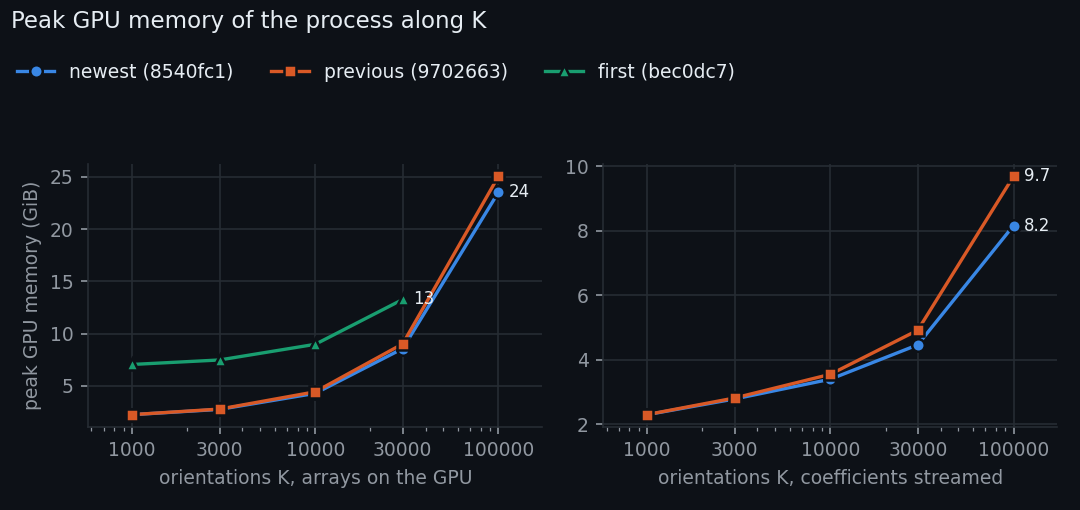
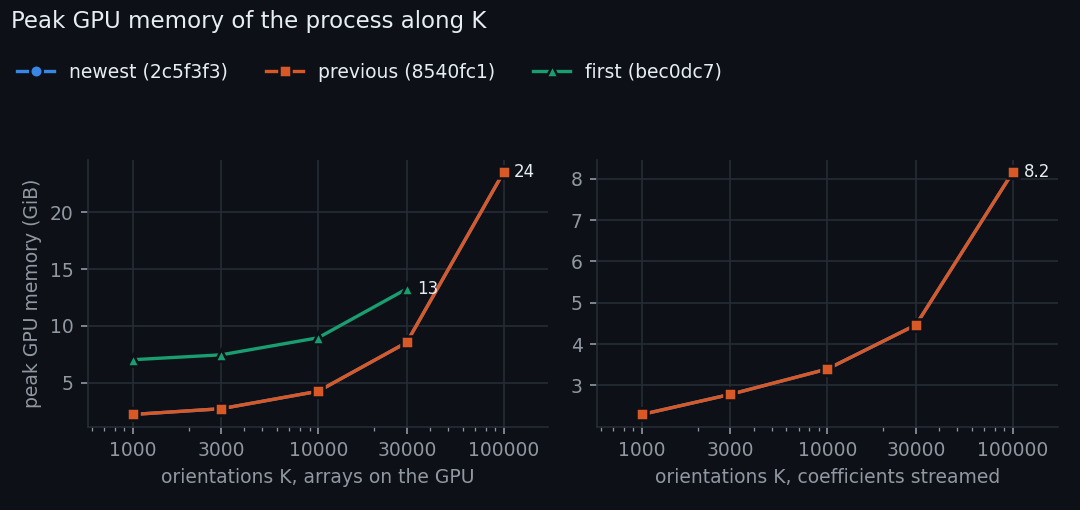
Benchmark results for 2c5f3f3 (FFT projector above 400 x 400), incl. 1200 x 1200

diff --git a/benchmarks/report.py b/benchmarks/report.py
@@ -27,6 +27,7 @@ LABELS = {
     "fbc8934": "NumPy API, (K, Ny, Nx) layout",
     "2c38f65": "sparse PF matrix generated directly, faster sparse products, store what fits, "
                "Radon in slices, larger batches",
+    "2c5f3f3": "Fourier-slice projector (projector=\"fft\"), the default above 400 x 400 pixels (results differ by ~1 %)",
     "8540fc1": "defaults: PF Gaussians cut at 3 sigma (was 3.46; results change by ~1 %), parallel random start of "
                "the streamed power iteration",
     "9702663": "streamed power iteration on all cores, streaming buffers kept with the operator; sparse up to 30 % "

diff --git a/benchmarks/RESULTS.md b/benchmarks/RESULTS.md
@@ -10,6 +10,7 @@ Speed and peak memory of diffractom's texture-tomography reconstruction across v
 
 | version | date | what changed |
 |---|---|---|
+| `2c5f3f3` | 2026-10-02 | Fourier-slice projector (projector="fft"), the default above 400 x 400 pixels (results differ by ~1 %) |
 | `8540fc1` | 2026-10-02 | defaults: PF Gaussians cut at 3 sigma (was 3.46; results change by ~1 %), parallel random start of the streamed power iteration |
 | `9702663` | 2026-10-02 | streamed power iteration on all cores, streaming buffers kept with the operator; sparse up to 30 % fill when stored (results unchanged) |
 | `9be35fb` | 2026-10-02 | tiled Radon projections (image rows / sinogram bins staged in local memory); at least 4 batches in the sparse modes |
@@ -22,47 +23,47 @@ Speed and peak memory of diffractom's texture-tomography reconstruction across v
 | `5a402f0` | 2026-09-28 | sparse PF matrix (`pf_mode="auto"`) |
 | `bec0dc7` | 2026-09-28 | before the speed-ups: dense PF matrix only |
 
-## Newest (`8540fc1`) against the version before it (`9702663`)
+## Newest (`2c5f3f3`) against the version before it (`8540fc1`)
 
 Seconds per FISTA iteration, steady state (without the first iteration, which includes the setup) where both versions recorded it (marked s), else the average of the two iterations; speed-up = previous / newest (below 1: slower). Single short runs: differences within about 10 % are noise.
 
 | case | mode | previous | newest | speed-up |
 |---|---|---:|---:|---:|
-| K = 1000, 120 x 120, sigma = 0.4 | gpu | 0.0739 | 0.0732 | 1.01x s |
-| K = 3000, 120 x 120, sigma = 0.4 | gpu | 0.149 | 0.149 | 1.00x s |
-| K = 10000, 64 x 64, sigma = 0.4 | gpu | 0.196 | 0.194 | 1.01x s |
-| K = 10000, 120 x 120, sigma = 0.4 | gpu | 0.452 | 0.449 | 1.01x s |
-| K = 10000, 120 x 120, sigma = 1 | gpu | 0.538 | 0.69 | **0.78x s** (slower) |
-| K = 10000, 120 x 120, sigma = 2 | gpu | 0.969 | 0.824 | 1.18x s |
-| K = 10000, 120 x 120, sigma = 4 | gpu | 4.44 | 4.42 | 1.01x s |
-| K = 10000, 200 x 200, sigma = 0.4 | gpu | 1.05 | 1.04 | 1.01x s |
-| K = 10000, 400 x 400, sigma = 0.4 | gpu | 3.35 | 3.49 | 0.96x s |
-| K = 10000, 400 x 400, sigma = 2 | gpu | 5.18 | 4.73 | 1.10x s |
-| K = 10000, 400 x 400, sigma = 4 | gpu | 11.1 | 11.0 | 1.01x s |
+| K = 1000, 120 x 120, sigma = 0.4 | gpu | 0.0732 | 0.0732 | 1.00x s |
+| K = 3000, 120 x 120, sigma = 0.4 | gpu | 0.149 | 0.147 | 1.01x s |
+| K = 10000, 64 x 64, sigma = 0.4 | gpu | 0.194 | 0.194 | 1.00x s |
+| K = 10000, 120 x 120, sigma = 0.4 | gpu | 0.449 | 0.447 | 1.00x s |
+| K = 10000, 120 x 120, sigma = 1 | gpu | 0.69 | 0.51 | 1.35x s |
+| K = 10000, 120 x 120, sigma = 2 | gpu | 0.824 | 0.955 | **0.86x s** (slower) |
+| K = 10000, 120 x 120, sigma = 4 | gpu | 4.42 | 4.41 | 1.00x s |
+| K = 10000, 200 x 200, sigma = 0.4 | gpu | 1.04 | 1.04 | 1.00x s |
+| K = 10000, 400 x 400, sigma = 0.4 | gpu | 3.49 | 3.59 | 0.97x s |
+| K = 10000, 400 x 400, sigma = 2 | gpu | 4.73 | 4.74 | 1.00x s |
+| K = 10000, 400 x 400, sigma = 4 | gpu | 11.0 | 11.0 | 1.00x s |
 | K = 10000, 600 x 600, sigma = 0.4 | gpu | *array > largest GPU buffer* | *array > largest GPU buffer* |  |
 | K = 10000, 600 x 600, sigma = 2 | gpu | *array > largest GPU buffer* | *array > largest GPU buffer* |  |
 | K = 10000, 600 x 600, sigma = 4 | gpu | *skipped* | *skipped* |  |
-| K = 30000, 120 x 120, sigma = 0.4 | gpu | 1.56 | 1.31 | 1.19x s |
-| K = 100000, 120 x 120, sigma = 0.4 | gpu | 4.34 | 4.29 | 1.01x s |
-| K = 100000, 120 x 120, sigma = 1 | gpu | 6.87 | 5.57 | 1.23x s |
-| K = 1000, 120 x 120, sigma = 0.4 | stream | 0.0851 | 0.0844 | 1.01x s |
-| K = 3000, 120 x 120, sigma = 0.4 | stream | 0.161 | 0.16 | 1.01x s |
-| K = 10000, 64 x 64, sigma = 0.4 | stream | 0.203 | 0.201 | 1.01x s |
-| K = 10000, 120 x 120, sigma = 0.4 | stream | 0.465 | 0.461 | 1.01x s |
-| K = 10000, 120 x 120, sigma = 1 | stream | 0.553 | 0.525 | 1.05x s |
-| K = 10000, 120 x 120, sigma = 2 | stream | 0.975 | 0.848 | 1.15x s |
-| K = 10000, 120 x 120, sigma = 4 | stream | 4.44 | 4.43 | 1.00x s |
-| K = 10000, 200 x 200, sigma = 0.4 | stream | 1.08 | 1.07 | 1.01x s |
-| K = 10000, 400 x 400, sigma = 0.4 | stream | 3.57 | 3.69 | 0.96x s |
-| K = 10000, 400 x 400, sigma = 2 | stream | 4.96 | 4.6 | 1.08x s |
-| K = 10000, 400 x 400, sigma = 4 | stream | 11.0 | 11.1 | 1.00x s |
-| K = 10000, 600 x 600, sigma = 0.4 | stream | 8.54 | 8.14 | 1.05x s |
-| K = 10000, 600 x 600, sigma = 2 | stream | 9.84 | 9.51 | 1.03x s |
-| K = 10000, 600 x 600, sigma = 4 | stream | 17.6 | 17.7 | 0.99x s |
-| K = 20000, 1200 x 1200, sigma = 0.4 | stream | 76.9 | 77.6 | 0.99x s |
-| K = 30000, 120 x 120, sigma = 0.4 | stream | 1.37 | 1.33 | 1.03x s |
-| K = 100000, 120 x 120, sigma = 0.4 | stream | 4.57 | 4.43 | 1.03x s |
-| K = 100000, 120 x 120, sigma = 1 | stream | 5.9 | 5.47 | 1.08x s |
+| K = 30000, 120 x 120, sigma = 0.4 | gpu | 1.31 | 1.31 | 1.00x s |
+| K = 100000, 120 x 120, sigma = 0.4 | gpu | 4.29 | 4.3 | 1.00x s |
+| K = 100000, 120 x 120, sigma = 1 | gpu | 5.57 | 5.57 | 1.00x s |
+| K = 1000, 120 x 120, sigma = 0.4 | stream | 0.0844 | 0.0812 | 1.04x s |
+| K = 3000, 120 x 120, sigma = 0.4 | stream | 0.16 | 0.159 | 1.00x s |
+| K = 10000, 64 x 64, sigma = 0.4 | stream | 0.201 | 0.202 | 1.00x s |
+| K = 10000, 120 x 120, sigma = 0.4 | stream | 0.461 | 0.481 | 0.96x s |
+| K = 10000, 120 x 120, sigma = 1 | stream | 0.525 | 0.523 | 1.00x s |
+| K = 10000, 120 x 120, sigma = 2 | stream | 0.848 | 0.832 | 1.02x s |
+| K = 10000, 120 x 120, sigma = 4 | stream | 4.43 | 4.43 | 1.00x s |
+| K = 10000, 200 x 200, sigma = 0.4 | stream | 1.07 | 1.07 | 1.00x s |
+| K = 10000, 400 x 400, sigma = 0.4 | stream | 3.69 | 3.64 | 1.02x s |
+| K = 10000, 400 x 400, sigma = 2 | stream | 4.6 | 4.6 | 1.00x s |
+| K = 10000, 400 x 400, sigma = 4 | stream | 11.1 | 11.0 | 1.00x s |
+| K = 10000, 600 x 600, sigma = 0.4 | stream | 8.14 | 5.17 | 1.57x s |
+| K = 10000, 600 x 600, sigma = 2 | stream | 9.51 | 5.85 | 1.62x s |
+| K = 10000, 600 x 600, sigma = 4 | stream | 17.7 | 13.7 | 1.29x s |
+| K = 20000, 1200 x 1200, sigma = 0.4 | stream | 77.6 | 33.5 | 2.31x s |
+| K = 30000, 120 x 120, sigma = 0.4 | stream | 1.33 | 1.49 | **0.89x s** (slower) |
+| K = 100000, 120 x 120, sigma = 0.4 | stream | 4.43 | 4.35 | 1.02x s |
+| K = 100000, 120 x 120, sigma = 1 | stream | 5.47 | 5.43 | 1.01x s |
 
 ## Every version on the base case
 
@@ -158,6 +159,38 @@ The time per iteration above includes a one-time setup in the first of the two F
 | `8540fc1` | K = 10000, 600 x 600, sigma = 2 | stream | 14.0 | 9.51 |
 | `8540fc1` | K = 10000, 600 x 600, sigma = 4 | stream | 22.2 | 17.7 |
 | `8540fc1` | K = 20000, 1200 x 1200, sigma = 0.4 | stream | 109.2 | 77.6 |
+| `2c5f3f3` | K = 10000, 64 x 64, sigma = 0.4 | gpu | 0.196 | 0.194 |
+| `2c5f3f3` | K = 10000, 64 x 64, sigma = 0.4 | stream | 0.429 | 0.202 |
+| `2c5f3f3` | K = 1000, 120 x 120, sigma = 0.4 | gpu | 0.076 | 0.0732 |
+| `2c5f3f3` | K = 1000, 120 x 120, sigma = 0.4 | stream | 0.31 | 0.0812 |
+| `2c5f3f3` | K = 3000, 120 x 120, sigma = 0.4 | gpu | 0.15 | 0.147 |
+| `2c5f3f3` | K = 3000, 120 x 120, sigma = 0.4 | stream | 0.436 | 0.159 |
+| `2c5f3f3` | K = 10000, 120 x 120, sigma = 0.4 | gpu | 0.451 | 0.447 |
+| `2c5f3f3` | K = 10000, 120 x 120, sigma = 0.4 | stream | 0.952 | 0.481 |
+| `2c5f3f3` | K = 10000, 120 x 120, sigma = 1 | gpu | 0.515 | 0.51 |
+| `2c5f3f3` | K = 10000, 120 x 120, sigma = 1 | stream | 0.99 | 0.523 |
+| `2c5f3f3` | K = 10000, 120 x 120, sigma = 2 | gpu | 0.825 | 0.955 |
+| `2c5f3f3` | K = 10000, 120 x 120, sigma = 2 | stream | 1.36 | 0.832 |
+| `2c5f3f3` | K = 10000, 120 x 120, sigma = 4 | gpu | 4.37 | 4.41 |
+| `2c5f3f3` | K = 10000, 120 x 120, sigma = 4 | stream | 4.74 | 4.43 |
+| `2c5f3f3` | K = 30000, 120 x 120, sigma = 0.4 | gpu | 1.32 | 1.31 |
+| `2c5f3f3` | K = 30000, 120 x 120, sigma = 0.4 | stream | 2.49 | 1.49 |
+| `2c5f3f3` | K = 100000, 120 x 120, sigma = 0.4 | gpu | 4.33 | 4.3 |
+| `2c5f3f3` | K = 100000, 120 x 120, sigma = 0.4 | stream | 7.07 | 4.35 |
+| `2c5f3f3` | K = 100000, 120 x 120, sigma = 1 | gpu | 5.58 | 5.57 |
+| `2c5f3f3` | K = 100000, 120 x 120, sigma = 1 | stream | 7.22 | 5.43 |
+| `2c5f3f3` | K = 10000, 200 x 200, sigma = 0.4 | gpu | 1.04 | 1.04 |
+| `2c5f3f3` | K = 10000, 200 x 200, sigma = 0.4 | stream | 2.26 | 1.07 |
+| `2c5f3f3` | K = 10000, 400 x 400, sigma = 0.4 | gpu | 3.48 | 3.59 |
+| `2c5f3f3` | K = 10000, 400 x 400, sigma = 0.4 | stream | 6.84 | 3.64 |
+| `2c5f3f3` | K = 10000, 400 x 400, sigma = 2 | gpu | 4.69 | 4.74 |
+| `2c5f3f3` | K = 10000, 400 x 400, sigma = 2 | stream | 7.76 | 4.6 |
+| `2c5f3f3` | K = 10000, 400 x 400, sigma = 4 | gpu | 10.8 | 11.0 |
+| `2c5f3f3` | K = 10000, 400 x 400, sigma = 4 | stream | 13.3 | 11.0 |
+| `2c5f3f3` | K = 10000, 600 x 600, sigma = 0.4 | stream | 9.63 | 5.17 |
+| `2c5f3f3` | K = 10000, 600 x 600, sigma = 2 | stream | 10.4 | 5.85 |
+| `2c5f3f3` | K = 10000, 600 x 600, sigma = 4 | stream | 18.4 | 13.7 |
+| `2c5f3f3` | K = 20000, 1200 x 1200, sigma = 0.4 | stream | 67.1 | 33.5 |
 
 ## Arrays on the GPU
 
@@ -172,9 +205,10 @@ Seconds per FISTA iteration; the fastest version per column in bold; * the base 
 
 | version | 1000 | 3000 | 10000 * | 30000 | 100000 |
 |---|---:|---:|---:|---:|---:|
-| `8540fc1` | 0.0973 | 0.187 | 0.482 | **1.36** | **4.37** |
+| `2c5f3f3` | 0.0895 | **0.164** | **0.47** | **1.35** | **4.35** |
+| `8540fc1` | 0.0973 | 0.187 | 0.482 | 1.36 | 4.37 |
 | `9702663` | 0.109 | 0.178 | 0.488 | 1.51 | 4.42 |
-| `9be35fb` | 0.0969 | **0.175** | **0.473** | 1.36 | 4.44 |
+| `9be35fb` | 0.0969 | 0.175 | 0.473 | 1.36 | 4.44 |
 | `2c38f65` | **0.0839** | 0.272 | 0.523 | 1.48 | 4.86 |
 | `fbc8934` | 0.118 | 0.244 | 0.733 | 2.07 | 7.05 |
 | `56fe181` | 0.116 | 0.25 | 0.736 | 2.07 | 7.01 |
@@ -188,9 +222,10 @@ Seconds per FISTA iteration; the fastest version per column in bold; * the base 
 
 | version | 64 | 120 * | 200 | 400 |
 |---|---:|---:|---:|---:|
-| `8540fc1` | **0.227** | 0.482 | **1.07** | 3.52 |
+| `2c5f3f3` | **0.214** | **0.47** | **1.06** | 3.58 |
+| `8540fc1` | 0.227 | 0.482 | 1.07 | 3.52 |
 | `9702663` | 0.234 | 0.488 | 1.07 | 3.37 |
-| `9be35fb` | 0.228 | **0.473** | 1.07 | **3.36** |
+| `9be35fb` | 0.228 | 0.473 | 1.07 | **3.36** |
 | `2c38f65` | 0.241 | 0.523 | 1.27 | 7.88 |
 | `fbc8934` | 0.245 | 0.733 | 2.81 | 11.2 |
 | `56fe181` | 0.288 | 0.736 | 2.81 | 11.2 |
@@ -204,9 +239,10 @@ Seconds per FISTA iteration; the fastest version per column in bold; * the base 
 
 | version | 0.4 deg * | 1 deg | 2 deg | 4 deg |
 |---|---:|---:|---:|---:|
+| `2c5f3f3` | **0.47** | **0.527** | 0.931 | **4.42** |
 | `8540fc1` | 0.482 | 0.64 | **0.855** | 4.43 |
 | `9702663` | 0.488 | 0.575 | 0.992 | 4.45 |
-| `9be35fb` | **0.473** | **0.57** | 0.985 | **4.43** |
+| `9be35fb` | 0.473 | 0.57 | 0.985 | 4.43 |
 | `2c38f65` | 0.523 | 0.613 | 1.05 | 4.55 |
 | `fbc8934` | 0.733 | 1.35 | 3.63 | 4.77 |
 | `56fe181` | 0.736 | 1.34 | 3.6 | 4.73 |
@@ -229,8 +265,9 @@ Seconds per FISTA iteration; the fastest version per column in bold; * the base 
 
 | version | 1000 | 3000 | 10000 * | 30000 | 100000 |
 |---|---:|---:|---:|---:|---:|
-| `8540fc1` | 0.28 | **0.3** | 0.728 | **1.84** | **5.53** |
-| `9702663` | **0.224** | 0.322 | **0.721** | 1.97 | 5.93 |
+| `2c5f3f3` | **0.173** | **0.268** | **0.661** | 1.86 | **5.34** |
+| `8540fc1` | 0.28 | 0.3 | 0.728 | **1.84** | 5.53 |
+| `9702663` | 0.224 | 0.322 | 0.721 | 1.97 | 5.93 |
 | `9be35fb` | 0.271 | 0.439 | 0.836 | 1.97 | 5.72 |
 | `2c38f65` | 0.372 | 0.496 | 0.891 | 2.06 | 6.24 |
 | `fbc8934` | 0.282 | 0.425 | 0.974 | 2.58 | 8.12 |
@@ -239,8 +276,9 @@ Seconds per FISTA iteration; the fastest version per column in bold; * the base 
 
 | version | 64 | 120 * | 200 | 400 |
 |---|---:|---:|---:|---:|
-| `8540fc1` | 0.363 | 0.728 | **1.54** | 5.23 |
-| `9702663` | **0.352** | **0.721** | 1.83 | **5.16** |
+| `2c5f3f3` | **0.297** | **0.661** | **1.5** | **4.76** |
+| `8540fc1` | 0.363 | 0.728 | 1.54 | 5.23 |
+| `9702663` | 0.352 | 0.721 | 1.83 | 5.16 |
 | `9be35fb` | 0.39 | 0.836 | 1.94 | 5.31 |
 | `2c38f65` | 0.405 | 0.891 | 2.13 | 10.0 |
 | `fbc8934` | 0.486 | 0.974 | 3.4 | 12.7 |
@@ -249,9 +287,10 @@ Seconds per FISTA iteration; the fastest version per column in bold; * the base 
 
 | version | 0.4 deg * | 1 deg | 2 deg | 4 deg |
 |---|---:|---:|---:|---:|
-| `8540fc1` | 0.728 | **0.752** | **1.12** | 4.65 |
-| `9702663` | **0.721** | 0.828 | 1.24 | 4.68 |
-| `9be35fb` | 0.836 | 0.889 | 1.23 | **4.64** |
+| `2c5f3f3` | **0.661** | **0.702** | **1.06** | **4.56** |
+| `8540fc1` | 0.728 | 0.752 | 1.12 | 4.65 |
+| `9702663` | 0.721 | 0.828 | 1.24 | 4.68 |
+| `9be35fb` | 0.836 | 0.889 | 1.23 | 4.64 |
 | `2c38f65` | 0.891 | 1.02 | 1.29 | 4.85 |
 | `fbc8934` | 0.974 | 1.53 | 3.77 | 4.93 |
 
@@ -266,6 +305,7 @@ Seconds per FISTA iteration; the fastest version per column in bold; * the base 
 
 | version | 1000 | 3000 | 10000 * | 30000 | 100000 |
 |---|---:|---:|---:|---:|---:|
+| `2c5f3f3` | **2.2** | **2.7** | **4.3** | **8.6** | **23.5** |
 | `8540fc1` | **2.2** | **2.7** | **4.3** | **8.6** | **23.5** |
 | `9702663` | 2.2 | 2.8 | 4.4 | 9.0 | 25.1 |
 | `9be35fb` | 2.2 | 2.8 | 4.4 | 9.0 | 25.1 |
@@ -282,6 +322,7 @@ Seconds per FISTA iteration; the fastest version per column in bold; * the base 
 
 | version | 1000 | 3000 | 10000 * | 30000 | 100000 |
 |---|---:|---:|---:|---:|---:|
+| `2c5f3f3` | 1.3 | 1.7 | 2.8 | 6.1 | 17.8 |
 | `8540fc1` | 1.3 | 1.7 | 2.8 | 6.1 | 17.8 |
 | `9702663` | **1.3** | 1.7 | **2.8** | 6.1 | 17.8 |
 | `9be35fb` | 1.3 | 1.7 | 2.8 | 6.1 | 17.8 |
@@ -298,6 +339,7 @@ Seconds per FISTA iteration; the fastest version per column in bold; * the base 
 
 | version | 1000 | 3000 | 10000 * | 30000 | 100000 |
 |---|---:|---:|---:|---:|---:|
+| `2c5f3f3` | **2.3** | 2.8 | 3.4 | **4.5** | **8.2** |
 | `8540fc1` | **2.3** | 2.8 | 3.4 | **4.5** | **8.2** |
 | `9702663` | 2.3 | 2.8 | 3.6 | 4.9 | 9.7 |
 | `9be35fb` | 2.3 | 2.8 | 3.6 | 4.9 | 9.7 |
@@ -308,6 +350,7 @@ Seconds per FISTA iteration; the fastest version per column in bold; * the base 
 
 | version | 1000 | 3000 | 10000 * | 30000 | 100000 |
 |---|---:|---:|---:|---:|---:|
+| `2c5f3f3` | 2.1 | 2.4 | 4.8 | 7.4 | 14.8 |
 | `8540fc1` | 2.1 | 2.4 | 4.8 | 7.4 | 14.8 |
 | `9702663` | 2.1 | 2.4 | 4.7 | 7.0 | 14.8 |
 | `9be35fb` | **2.0** | **2.1** | 3.0 | 5.3 | 13.1 |
@@ -320,6 +363,7 @@ Seconds per FISTA iteration (and how the PF matrix was applied: dense; sparse wi
 
 | version | K = 10000, 400 x 400, sigma = 2, gpu | K = 10000, 400 x 400, sigma = 2, stream | K = 10000, 400 x 400, sigma = 4, gpu | K = 10000, 400 x 400, sigma = 4, stream | K = 10000, 600 x 600, sigma = 0.4, gpu | K = 10000, 600 x 600, sigma = 0.4, stream | K = 10000, 600 x 600, sigma = 2, gpu | K = 10000, 600 x 600, sigma = 2, stream | K = 10000, 600 x 600, sigma = 4, gpu | K = 10000, 600 x 600, sigma = 4, stream | K = 20000, 1200 x 1200, sigma = 0.4, gpu | K = 20000, 1200 x 1200, sigma = 0.4, stream | K = 100000, 120 x 120, sigma = 1, gpu | K = 100000, 120 x 120, sigma = 1, stream |
 |---|---:|---:|---:|---:|---:|---:|---:|---:|---:|---:|---:|---:|---:|---:|
+| `2c5f3f3` | 4.74 (sparse, adjoint) | 5.69 (sparse, both) | 11.0 (dense) | 11.8 (dense) | *array > largest GPU buffer* | 6.7 (sparse, both) | *array > largest GPU buffer* | 7.41 (sparse, both) | *skipped* | 15.3 (dense) |  | 50.5 (sparse, both) | 5.63 (generated, adjoint, 92 of 98 batches) | 6.1 (sparse, adjoint) |
 | `8540fc1` | 4.74 (sparse, adjoint) | 6.22 (sparse, both) | 10.9 (dense) | 12.1 (dense) | *array > largest GPU buffer* | 10.7 (sparse, both) | *array > largest GPU buffer* | 11.8 (sparse, both) | *skipped* | 20.0 (dense) |  | 93.6 (sparse, both) | 5.64 (generated, adjoint, 92 of 98 batches) | 6.42 (sparse, adjoint) |
 | `9702663` | 5.18 (sparse, adjoint) | 6.55 (sparse, both) | 11.0 (dense) | 12.1 (dense) | *array > largest GPU buffer* | 10.9 (sparse, both) | *array > largest GPU buffer* | 12.1 (sparse, both) | *skipped* | 19.8 (dense) |  | 92.4 (sparse, both) | 6.96 (generated, adjoint, 69 of 98 batches) | 7.42 (sparse, adjoint) |
 | `9be35fb` | 5.15 (sparse, adjoint) | 6.71 (sparse, both) | 11.0 (dense) | 12.5 (dense) | *array > largest GPU buffer* | 10.9 (sparse, both) | *array > largest GPU buffer* | 13.5 (sparse, both) | *skipped* | 20.9 (dense) |  | 102.1 (sparse, both) | 6.94 (generated, adjoint, 69 of 98 batches) | 7.2 (sparse, adjoint) |
@@ -332,6 +376,41 @@ Seconds per FISTA iteration (and how the PF matrix was applied: dense; sparse wi
 
 | version | mode | K | N | sigma | status | PF | build (s) | forward (s) | adjoint (s) | FISTA / it (s) | GPU (GiB) | host (GiB) |
 |---|---|---:|---:|---:|---|---|---:|---:|---:|---:|---:|---:|
+| `2c5f3f3` | gpu | 1000 | 120 | 0.4 | ok | sparse, both | 1.18 | 0.0594 | 0.0271 | 0.0895 | 2.23 | 1.34 |
+| `2c5f3f3` | gpu | 3000 | 120 | 0.4 | ok | sparse, both | 1.25 | 0.103 | 0.0585 | 0.164 | 2.74 | 1.68 |
+| `2c5f3f3` | gpu | 10000 | 64 | 0.4 | ok | sparse, both | 1.56 | 0.127 | 0.0815 | 0.214 | 2.25 | 1.3 |
+| `2c5f3f3` | gpu | 10000 | 120 | 0.4 | ok | sparse, both | 1.57 | 0.263 | 0.193 | 0.47 | 4.27 | 2.83 |
+| `2c5f3f3` | gpu | 10000 | 120 | 1 | ok | sparse, both | 1.95 | 0.29 | 0.228 | 0.527 | 6.37 | 2.83 |
+| `2c5f3f3` | gpu | 10000 | 120 | 2 | ok | sparse, both | 2.2 | 0.471 | 0.362 | 0.931 | 13.8 | 2.83 |
+| `2c5f3f3` | gpu | 10000 | 120 | 4 | ok | dense | 1.37 | 2.19 | 2.2 | 4.42 | 5.6 | 2.84 |
+| `2c5f3f3` | gpu | 10000 | 200 | 0.4 | ok | sparse, both | 1.5 | 0.566 | 0.452 | 1.06 | 8.42 | 6.24 |
+| `2c5f3f3` | gpu | 10000 | 400 | 0.4 | ok | sparse, both | 1.61 | 2.01 | 1.32 | 3.58 | 24.8 | 21.0 |
+| `2c5f3f3` | gpu | 10000 | 400 | 2 | ok | sparse, adjoint | 1.93 | 2.59 | 2.05 | 4.74 | 29.6 | 21.0 |
+| `2c5f3f3` | gpu | 10000 | 400 | 4 | ok | dense | 1.32 | 5.49 | 5.24 | 11.0 | 25.9 | 21.0 |
+| `2c5f3f3` | gpu | 10000 | 600 | 0.4 | oom | generated, none | 2.36 |  |  |  | 0.312 | 4.53 |
+| `2c5f3f3` | gpu | 10000 | 600 | 2 | oom | generated, none | 2.52 |  |  |  | 0.312 | 4.53 |
+| `2c5f3f3` | gpu | 10000 | 600 | 4 | skipped |  |  |  |  |  |  |  |
+| `2c5f3f3` | gpu | 30000 | 120 | 0.4 | ok | sparse, both | 2.63 | 0.733 | 0.573 | 1.35 | 8.56 | 6.15 |
+| `2c5f3f3` | gpu | 100000 | 120 | 0.4 | ok | sparse, both | 5.45 | 2.33 | 1.88 | 4.35 | 23.5 | 17.8 |
+| `2c5f3f3` | gpu | 100000 | 120 | 1 | ok | generated, adjoint, 92 of 98 batches | 6.71 | 3.13 | 2.36 | 5.63 | 31.5 | 17.8 |
+| `2c5f3f3` | stream | 1000 | 120 | 0.4 | ok | sparse, both | 1.21 | 0.494 | 0.159 | 0.173 | 2.3 | 2.12 |
+| `2c5f3f3` | stream | 3000 | 120 | 0.4 | ok | sparse, both | 1.33 | 0.62 | 0.197 | 0.268 | 2.79 | 2.41 |
+| `2c5f3f3` | stream | 10000 | 64 | 0.4 | ok | sparse, both | 2.06 | 0.385 | 0.16 | 0.297 | 1.99 | 1.84 |
+| `2c5f3f3` | stream | 10000 | 120 | 0.4 | ok | sparse, both | 1.65 | 0.763 | 0.331 | 0.661 | 3.4 | 4.85 |
+| `2c5f3f3` | stream | 10000 | 120 | 1 | ok | sparse, both | 1.76 | 0.763 | 0.359 | 0.702 | 5.5 | 4.85 |
+| `2c5f3f3` | stream | 10000 | 120 | 2 | ok | sparse, both | 2.23 | 0.989 | 0.497 | 1.06 | 12.5 | 4.61 |
+| `2c5f3f3` | stream | 10000 | 120 | 4 | ok | dense | 1.36 | 2.63 | 2.33 | 4.56 | 4.22 | 4.54 |
+| `2c5f3f3` | stream | 10000 | 200 | 0.4 | ok | sparse, both | 1.56 | 1.82 | 0.667 | 1.5 | 5.96 | 8.15 |
+| `2c5f3f3` | stream | 10000 | 400 | 0.4 | ok | sparse, both | 1.98 | 3.76 | 1.65 | 4.76 | 10.6 | 19.8 |
+| `2c5f3f3` | stream | 10000 | 400 | 2 | ok | sparse, both | 2.27 | 3.66 | 2.39 | 5.69 | 18.8 | 18.9 |
+| `2c5f3f3` | stream | 10000 | 400 | 4 | ok | dense | 1.63 | 6.94 | 5.57 | 11.8 | 10.4 | 18.9 |
+| `2c5f3f3` | stream | 10000 | 600 | 0.4 | ok | sparse, both | 2.8 | 4.44 | 2.5 | 6.7 | 16.3 | 36.9 |
+| `2c5f3f3` | stream | 10000 | 600 | 2 | ok | sparse, both | 3.15 | 4.79 | 3.64 | 7.41 | 25.8 | 36.9 |
+| `2c5f3f3` | stream | 10000 | 600 | 4 | ok | dense | 2.33 | 8.84 | 7.49 | 15.3 | 17.3 | 36.9 |
+| `2c5f3f3` | stream | 20000 | 1200 | 0.4 | ok | sparse, both | 4.7 | 18.9 | 11.7 | 50.5 | 43.2 | 237.9 |
+| `2c5f3f3` | stream | 30000 | 120 | 0.4 | ok | sparse, both | 2.87 | 1.34 | 0.714 | 1.86 | 4.46 | 7.39 |
+| `2c5f3f3` | stream | 100000 | 120 | 0.4 | ok | sparse, both | 5.56 | 2.96 | 2.04 | 5.34 | 8.16 | 14.8 |
+| `2c5f3f3` | stream | 100000 | 120 | 1 | ok | sparse, adjoint | 6.69 | 3.66 | 2.39 | 6.1 | 16.3 | 14.8 |
 | `8540fc1` | gpu | 1000 | 120 | 0.4 | ok | sparse, both | 1.22 | 0.0609 | 0.0271 | 0.0973 | 2.23 | 1.34 |
 | `8540fc1` | gpu | 3000 | 120 | 0.4 | ok | sparse, both | 1.34 | 0.0998 | 0.0581 | 0.187 | 2.74 | 1.68 |
 | `8540fc1` | gpu | 10000 | 64 | 0.4 | ok | sparse, both | 1.58 | 0.126 | 0.0815 | 0.227 | 2.25 | 1.3 |
@@ -569,4 +648,4 @@ Seconds per FISTA iteration (and how the PF matrix was applied: dense; sparse wi
 
 </details>
 
-Results files: `2026-10-02_1026_A40_n-62-18-4.jsonl`, `2026-10-02_1251_A40_n-62-18-4.jsonl`, `2026-10-02_1310_A40_n-62-18-4.jsonl`, `2026-10-02_1344_A40_n-62-18-4.jsonl`, `2026-10-02_1420_A40_n-62-18-4.jsonl`, `2026-10-02_1503_A40_n-62-18-4.jsonl`, `2026-10-02_1530_A40_n-62-18-4.jsonl`, `2026-10-02_1607_A40_n-62-18-4.jsonl`, `2026-10-02_1637_A40_n-62-18-4.jsonl`
+Results files: `2026-10-02_1026_A40_n-62-18-4.jsonl`, `2026-10-02_1251_A40_n-62-18-4.jsonl`, `2026-10-02_1310_A40_n-62-18-4.jsonl`, `2026-10-02_1344_A40_n-62-18-4.jsonl`, `2026-10-02_1420_A40_n-62-18-4.jsonl`, `2026-10-02_1503_A40_n-62-18-4.jsonl`, `2026-10-02_1530_A40_n-62-18-4.jsonl`, `2026-10-02_1607_A40_n-62-18-4.jsonl`, `2026-10-02_1637_A40_n-62-18-4.jsonl`, `2026-10-02_1722_A40_n-62-18-4.jsonl`, `2026-10-02_1759_A40_n-62-18-4.jsonl`
